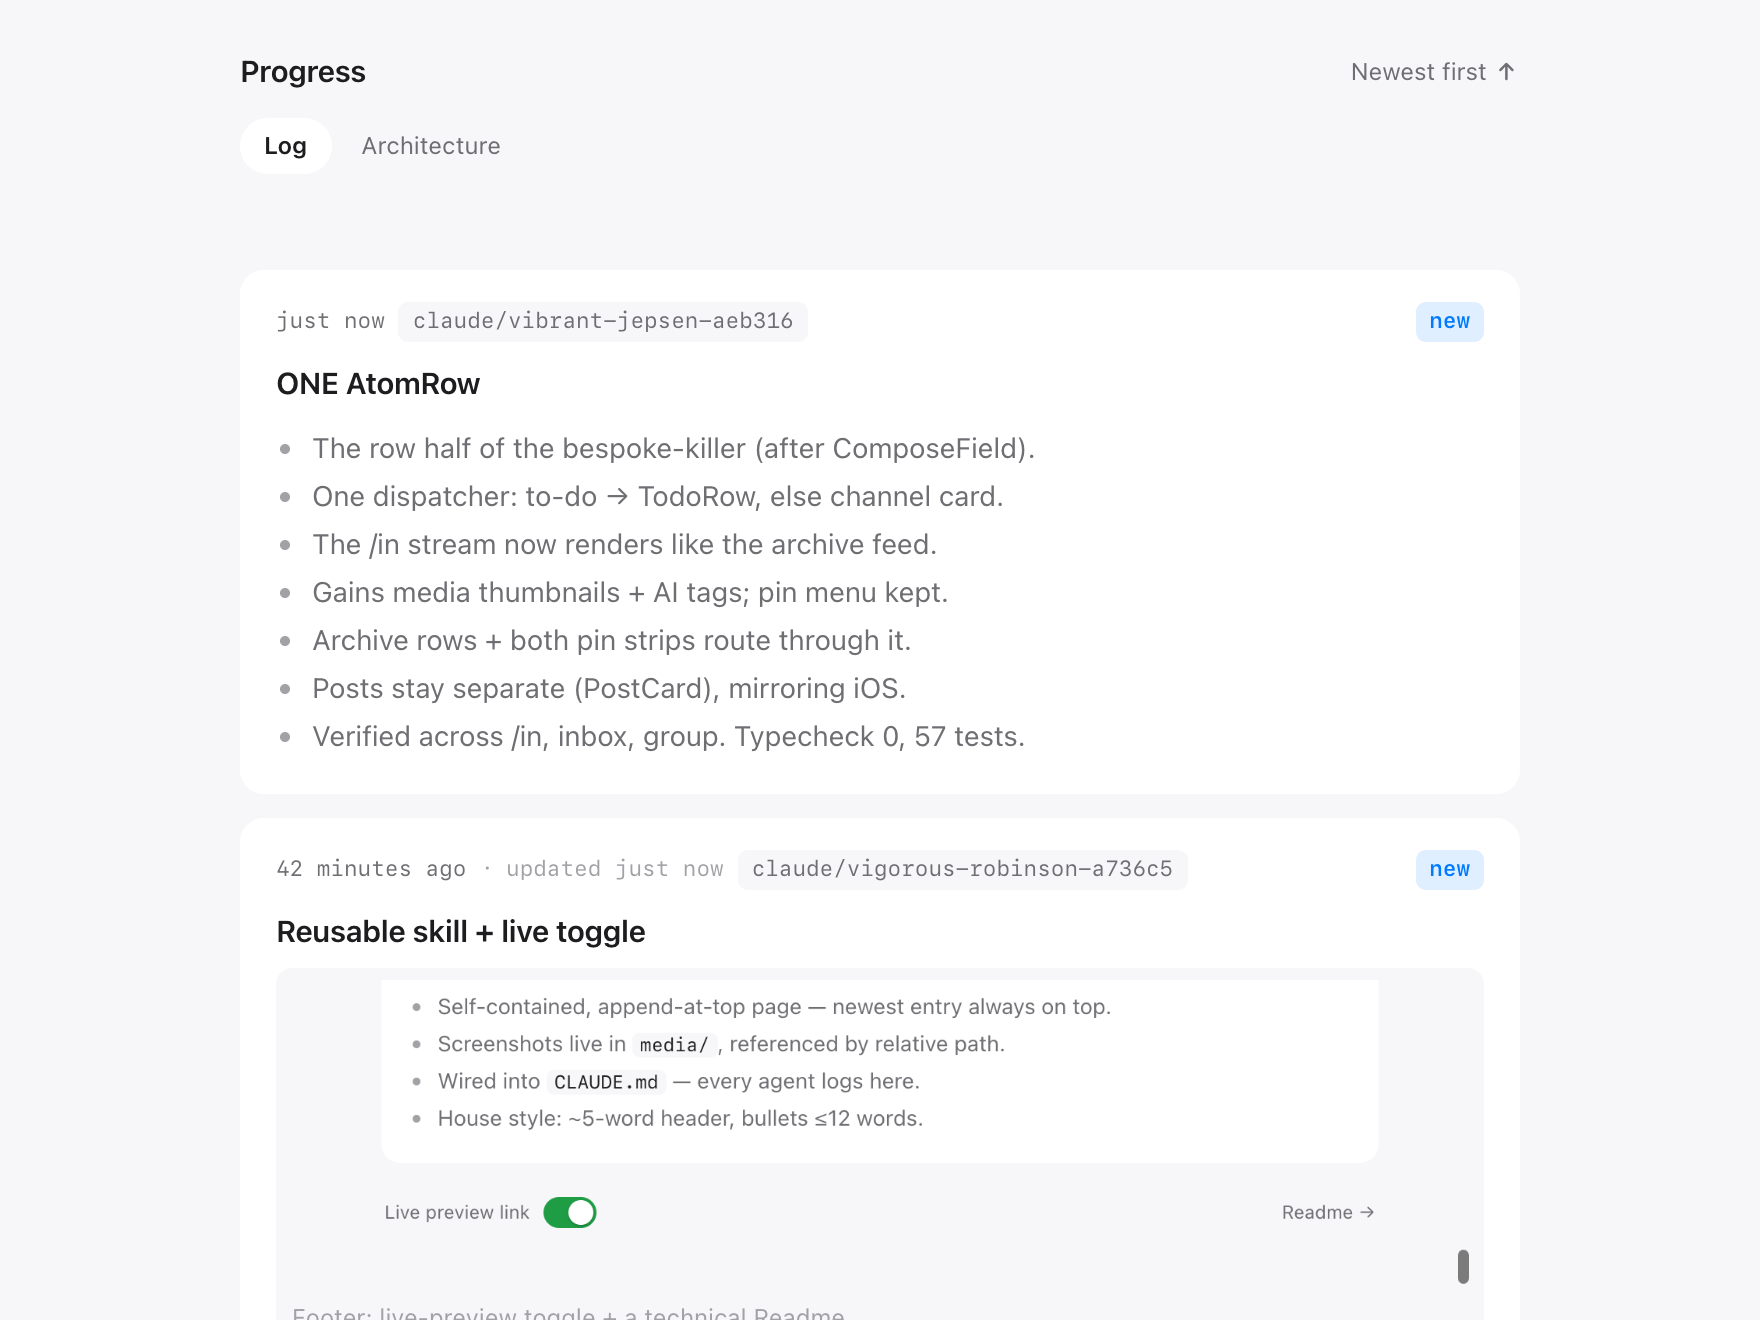
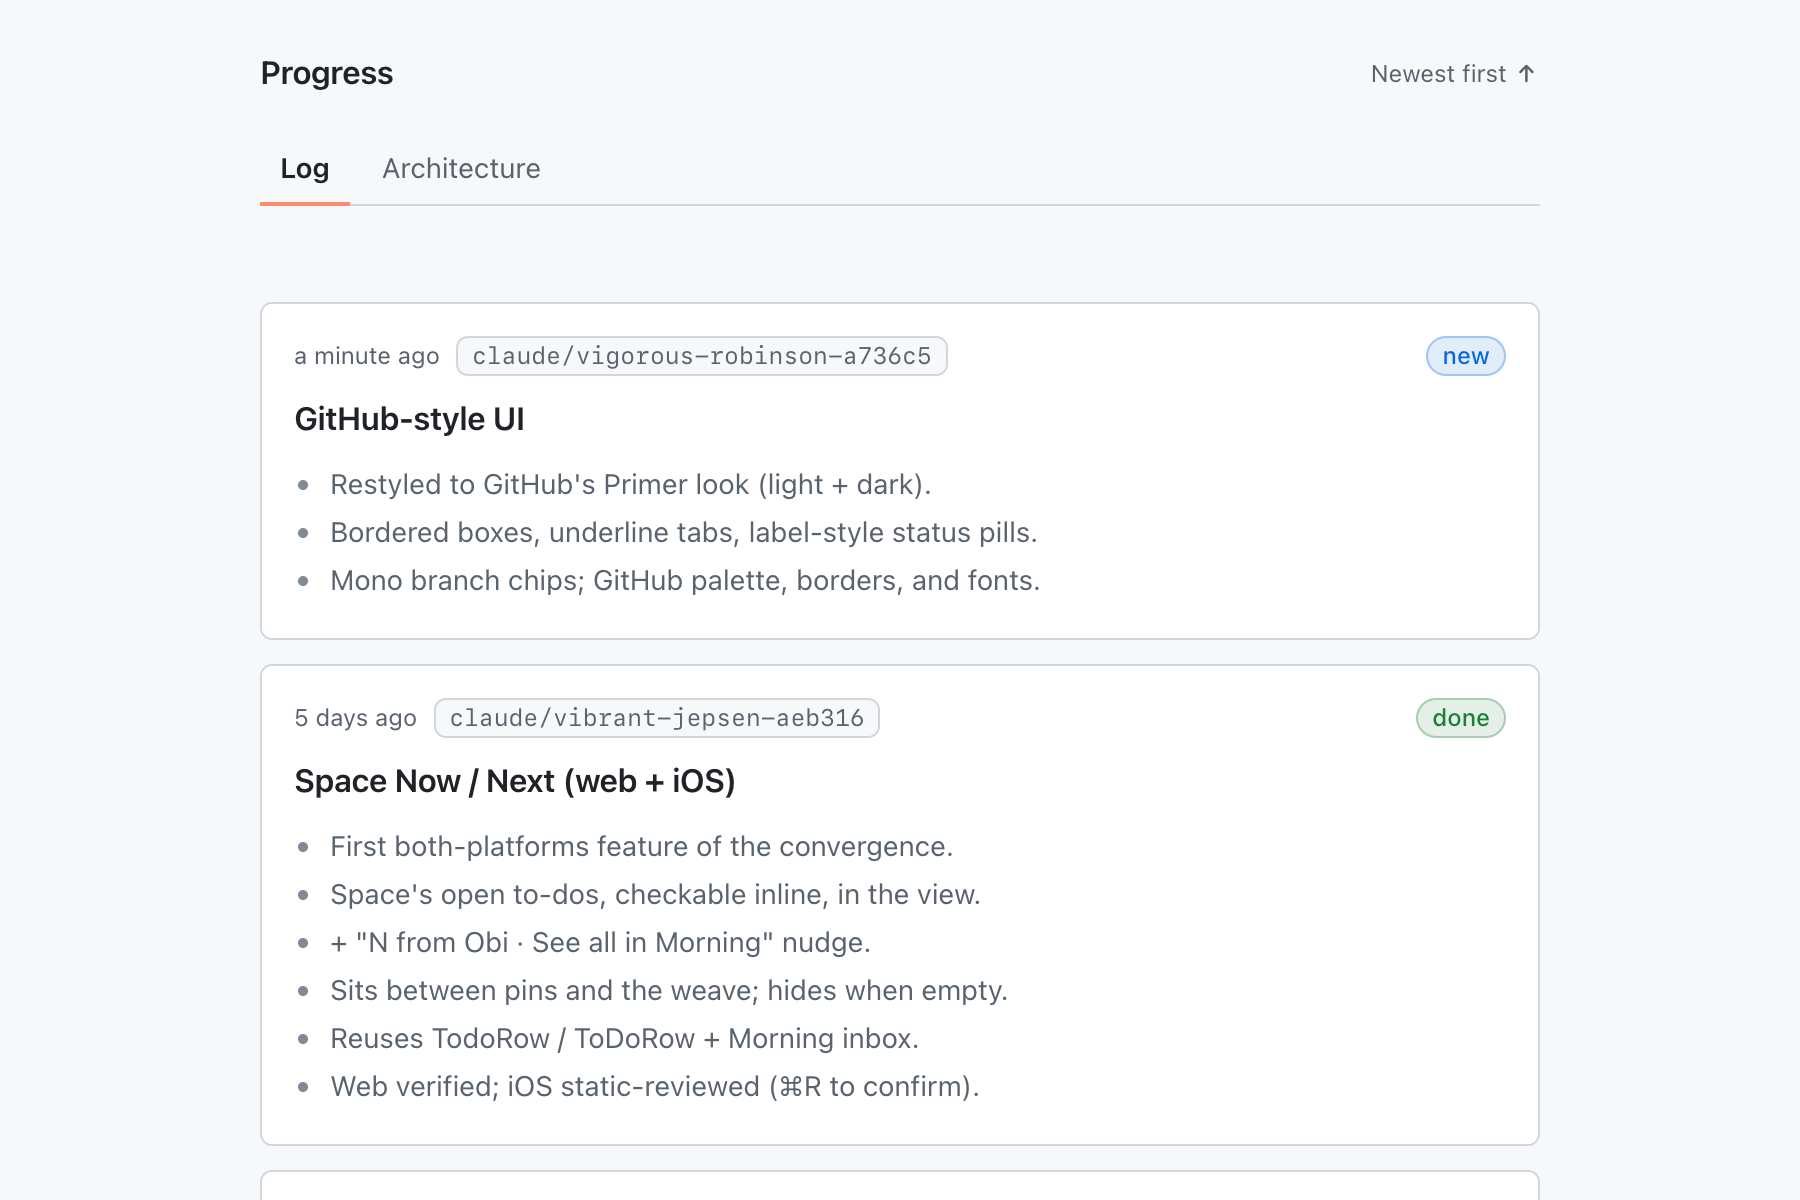
ui: GitHub Primer restyle (bordered boxes, underline tabs, label statuses); refresh hero

diff --git a/templates/index.html b/templates/index.html
@@ -21,47 +21,56 @@
   look) or "done". "new" auto-ages back to "done" after ~2h untouched, and
   you should demote stale "new"s yourself when you start / move on — keep it
   to ~one at a time; not everything needs it.
-  MEDIA: one image per task — overwrite the SAME file as you iterate this
-  session; keep only the most recent. Don't pile up near-duplicate variants.
-  STYLE: header <=5 words. Bullets only, each <=12 words. No prose.
+  MEDIA: if the change is VISIBLE on screen — a view, dialog, state, layout,
+  or motion — a screenshot is REQUIRED, not optional. The test is "can I show
+  it?", NOT "is this a big UI feature?". A behavior/bug fix whose result you
+  can see (a dialog opening, a row updating) IS visual — capture it. Skip
+  media ONLY for genuinely non-visual work (server/types/tooling). Authed app
+  screens: see the SHOT_COOKIE recipe in scripts/progress-shot.mjs. One image
+  per task — overwrite the SAME file as you iterate; keep only the most recent.
+  STYLE: header <=5 words. 1-3 bullets — use the FEWEST that say what changed +
+  the result; <=12 words each is a ceiling, not a target. Bullets only, no prose.
   ========================================================================
 -->
 <style>
   :root {
-    /* Surfaces: light-grey page, white primary cards, grey secondary. No borders. */
-    --bg: #f7f7f9;
-    --primary: #ffffff;
-    --fg: #1d1d1f;
-    --fg-2: #6e6e73;
-    --fg-3: #a1a1a6;
-    /* One accent (green) + semantic status colors. */
-    --accent: #28a745;
-    --green: #1f9d44;
-    --amber: #b06a00;
-    --red: #d70015;
-    --blue: #007aff;   /* "new" tag — newest post */
-    /* Type scale — three sizes only. */
+    /* GitHub Primer — light. Boxes on a subtle canvas, hairline borders. */
+    --bg: #f6f8fa;        /* canvas.subtle (page) */
+    --primary: #ffffff;   /* canvas.default (boxes) */
+    --border: #d0d7de;    /* border.default (hairline) */
+    --fg: #1f2328;        /* fg.default */
+    --fg-2: #59636e;      /* fg.muted */
+    --fg-3: #818b98;      /* fg.subtle */
+    --accent: #0969da;    /* accent.fg (links) */
+    --green: #1a7f37;     /* success.fg */
+    --amber: #9a6700;     /* attention.fg */
+    --red: #cf222e;       /* danger.fg */
+    --blue: #0969da;      /* "new" status */
+    --tab-accent: #fd8c73;/* selected underline */
     --t-meta: 12px;
     --t-body: 14px;
-    --t-title: 15px;
-    --r-card: 12px;
-    --r-img: 8px;
-    --r-code: 5px;
-    --mono: ui-monospace, "SF Mono", Menlo, monospace;
-    --sans: system-ui, -apple-system, BlinkMacSystemFont, "Segoe UI", sans-serif;
+    --t-title: 16px;
+    --r-card: 6px;
+    --r-img: 6px;
+    --r-code: 6px;
+    --r-label: 2em;       /* pill labels */
+    --mono: ui-monospace, SFMono-Regular, "SF Mono", Menlo, Consolas, "Liberation Mono", monospace;
+    --sans: -apple-system, BlinkMacSystemFont, "Segoe UI", "Noto Sans", Helvetica, Arial, sans-serif;
   }
   @media (prefers-color-scheme: dark) {
     :root {
-      --bg: #1c1c1e;
-      --primary: #2c2c2e;
-      --fg: #f5f5f7;
-      --fg-2: #98989d;
-      --fg-3: #636366;
-      --accent: #30d158;
-      --green: #30d158;
-      --amber: #ffd60a;
-      --red: #ff453a;
-      --blue: #0a84ff;
+      --bg: #0d1117;      /* canvas.default (dark page) */
+      --primary: #151b23; /* canvas.subtle (dark boxes) */
+      --border: #30363d;
+      --fg: #e6edf3;
+      --fg-2: #9198a1;
+      --fg-3: #6e7681;
+      --accent: #4493f8;
+      --green: #3fb950;
+      --amber: #d29922;
+      --red: #f85149;
+      --blue: #4493f8;
+      --tab-accent: #f78166;
     }
   }
   * { box-sizing: border-box; }
@@ -94,11 +103,15 @@
   .sort:hover { color: var(--fg); }
   .sort .arrow { color: inherit; font-weight: 600; }
 
-  /* Tabs — own row beneath the title (Log · Map · Architecture). */
-  .tabs { display: flex; gap: 3px; flex-basis: 100%; margin-left: 0; }
-  .tabs a { font-size: var(--t-meta); color: var(--fg-2); text-decoration: none; padding: 5px 12px; border-radius: 100px; }
-  .tabs a:hover { color: var(--fg); }
-  .tabs a.active { background: var(--primary); color: var(--fg); font-weight: 600; }
+  /* Tabs — GitHub UnderlineNav: text + 2px active underline, hairline under all. */
+  .tabs { display: flex; gap: 6px; flex-basis: 100%; margin: 6px 0 0; border-bottom: 1px solid var(--border); }
+  .tabs a {
+    font-size: var(--t-body); color: var(--fg-2); text-decoration: none;
+    padding: 7px 10px; border-bottom: 2px solid transparent; margin-bottom: -1px;
+    border-radius: 6px 6px 0 0;
+  }
+  .tabs a:hover { color: var(--fg); background: color-mix(in srgb, var(--fg) 6%, transparent); }
+  .tabs a.active { color: var(--fg); font-weight: 600; border-bottom-color: var(--tab-accent); }
 
   /* ── Entry (primary, white, no border) ────────────────── */
   .entries { display: flex; flex-direction: column; gap: 12px; margin-top: 20px; position: relative; }
@@ -106,8 +119,9 @@
   /* Reading order inside a post: head → title → image → bullets. */
   .entry {
     background: var(--primary);
+    border: 1px solid var(--border);
     border-radius: var(--r-card);
-    padding: 16px 18px;
+    padding: 16px;
     transition: margin .2s ease;
     display: flex; flex-direction: column;
     position: relative;
@@ -120,31 +134,32 @@
   .entry.push-up   { margin-bottom: 18px; }
   .entry.push-down { margin-top: 18px; }
 
-  /* Meta row — relative time + small badges, all one (small) size. */
+  /* Meta row — relative time + ref/label chips (GitHub sans, muted). */
   .entry-head {
-    display: flex; flex-wrap: wrap; align-items: center; gap: 7px;
-    font-family: var(--mono); font-size: 11px; color: var(--fg-2);
-    font-variant-numeric: tabular-nums; margin-bottom: 9px;
+    display: flex; flex-wrap: wrap; align-items: center; gap: 8px;
+    font-family: var(--sans); font-size: var(--t-meta); color: var(--fg-2);
+    margin-bottom: 9px;
   }
-  /* Branch + status — small badges, a notch smaller than the meta line. */
-  .branch, .status { font-size: 11px; line-height: 1.5; border-radius: var(--r-code); padding: 2px 7px; white-space: nowrap; }
-  /* Branch — dim grey badge, links to GitHub. */
+  /* Branch — a GitHub ref chip (mono, hairline, links to the branch). */
   .branch {
-    font-family: var(--mono); color: var(--fg-2); background: var(--bg);
-    text-decoration: none;
+    font-family: var(--mono); font-size: var(--t-meta); line-height: 18px;
+    color: var(--fg-2); background: var(--bg); border: 1px solid var(--border);
+    border-radius: var(--r-code); padding: 0 7px; white-space: nowrap; text-decoration: none;
   }
-  a.branch:hover { color: var(--fg); }
+  a.branch:hover { color: var(--accent); border-color: color-mix(in srgb, var(--accent) 45%, var(--border)); }
   /* "updated" marker — shows when an entry was edited after it was created. */
   .entry-head .edited { color: var(--fg-3); }
   .entry-head .edited:empty { display: none; }
   .entry-head .edited::before { content: "·"; margin-right: 6px; color: var(--fg-3); }
-  /* Status — colored pill: full-color text on a 10%-opacity bg of that color.
-     "new" is "done + worth a timely look"; JS ages it back to "done". */
-  .status { font-weight: 600; margin-left: auto; }
-  .status[data-status="new"]    { color: var(--blue);  background: color-mix(in srgb, var(--blue) 12%, transparent); }
-  .status[data-status="done"]   { color: var(--green); background: color-mix(in srgb, var(--green) 10%, transparent); }
-  .status[data-status="wip"]    { color: var(--amber); background: color-mix(in srgb, var(--amber) 10%, transparent); }
-  .status[data-status="failed"] { color: var(--red);   background: color-mix(in srgb, var(--red) 10%, transparent); }
+  /* Status — GitHub Label pill: tinted bg + colored text + colored hairline. */
+  .status {
+    margin-left: auto; font-size: var(--t-meta); font-weight: 500; line-height: 18px;
+    padding: 0 7px; border-radius: var(--r-label); border: 1px solid transparent; white-space: nowrap;
+  }
+  .status[data-status="new"]    { color: var(--blue);  background: color-mix(in srgb, var(--blue) 12%, transparent);  border-color: color-mix(in srgb, var(--blue) 30%, transparent); }
+  .status[data-status="done"]   { color: var(--green); background: color-mix(in srgb, var(--green) 12%, transparent); border-color: color-mix(in srgb, var(--green) 30%, transparent); }
+  .status[data-status="wip"]    { color: var(--amber); background: color-mix(in srgb, var(--amber) 14%, transparent); border-color: color-mix(in srgb, var(--amber) 30%, transparent); }
+  .status[data-status="failed"] { color: var(--red);   background: color-mix(in srgb, var(--red) 12%, transparent);   border-color: color-mix(in srgb, var(--red) 30%, transparent); }
 
   .entry h2 { font-size: var(--t-title); font-weight: 600; letter-spacing: -0.01em; margin: 0 0 7px; }
   .entry-body { font-size: var(--t-body); color: var(--fg); overflow-wrap: break-word; }
@@ -162,7 +177,7 @@
   /* ── Media — sits between the title and the bullets ── */
   .media { display: grid; grid-template-columns: repeat(auto-fit, minmax(200px, 1fr)); gap: 8px; margin: 0 0 12px; }
   .media:empty { display: none; }
-  .media figure { margin: 0; background: var(--bg); border-radius: var(--r-img); padding: 6px; }
+  .media figure { margin: 0; background: var(--bg); border: 1px solid var(--border); border-radius: var(--r-img); padding: 6px; }
   .media img, .media video {
     width: 100%; height: auto; display: block; border-radius: calc(var(--r-img) - 3px);
   }